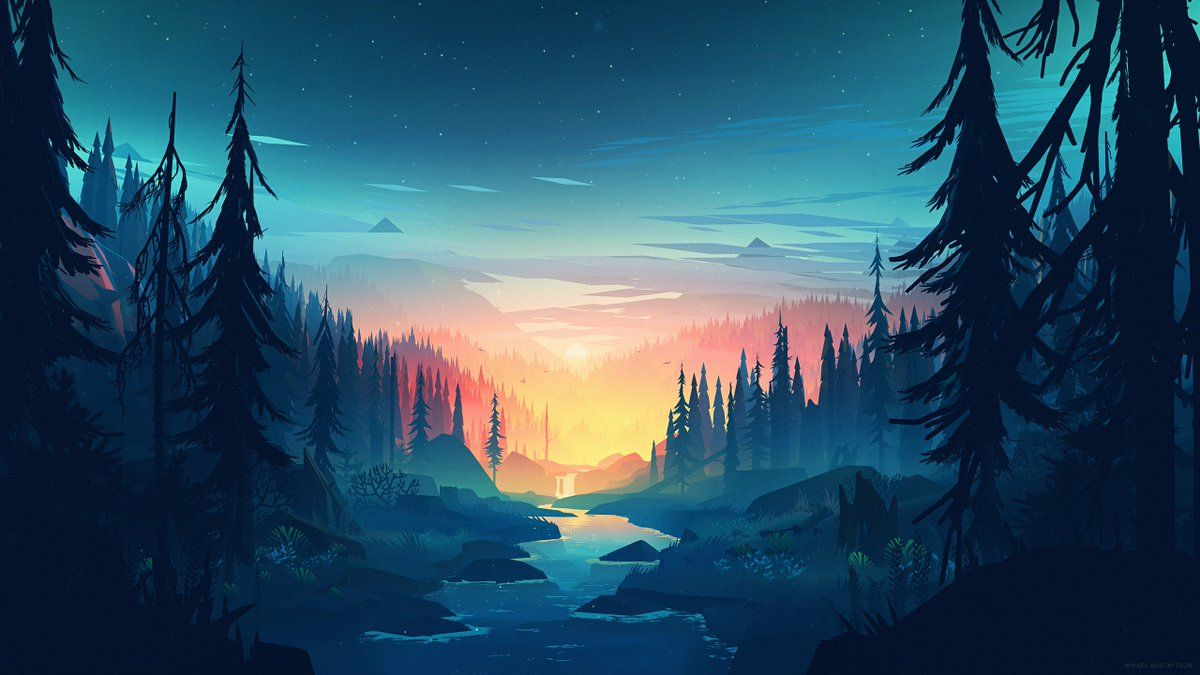
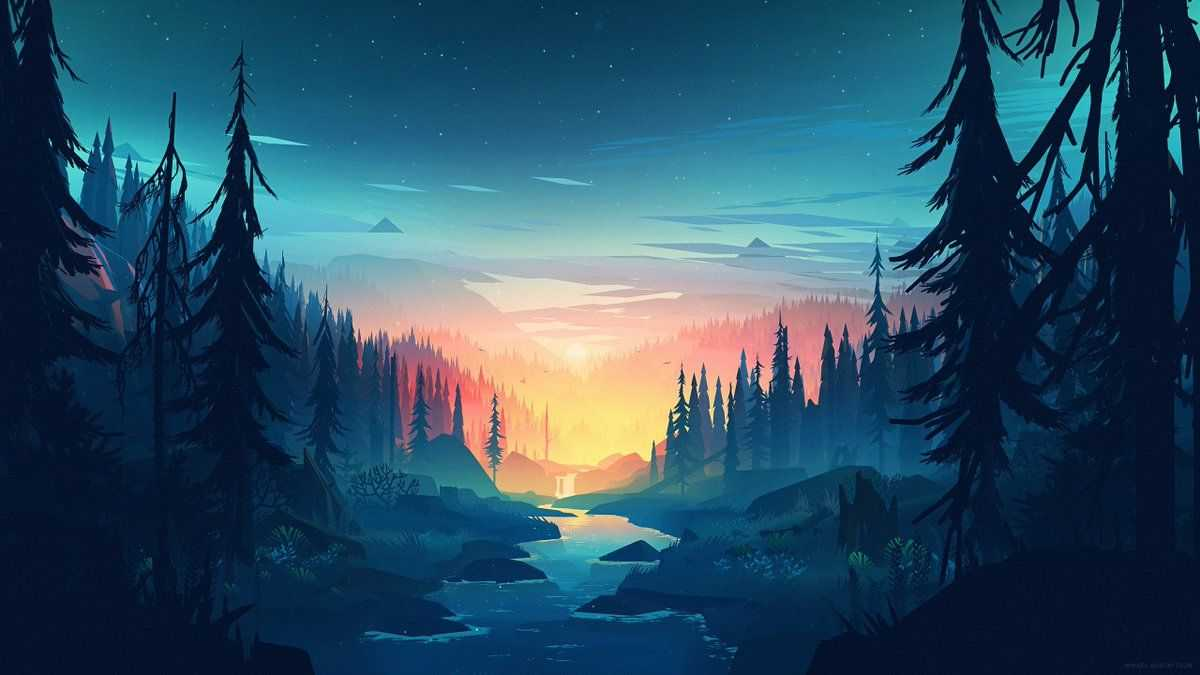
Okay

diff --git a/index.html b/index.html
@@ -1,1 +1,1 @@
-<!DOCTYPE html><html lang="en"><head><meta charset="UTF-8"><meta name="viewport" content="width=device-width, initial-scale=1.0"><link rel="stylesheet" href="https://stackpath.bootstrapcdn.com/bootstrap/4.4.1/css/bootstrap.min.css" integrity="sha384-Vkoo8x4CGsO3+Hhxv8T/Q5PaXtkKtu6ug5TOeNV6gBiFeWPGFN9MuhOf23Q9Ifjh" crossorigin="anonymous"> <script src="https://code.jquery.com/jquery-3.4.1.slim.min.js" integrity="sha384-J6qa4849blE2+poT4WnyKhv5vZF5SrPo0iEjwBvKU7imGFAV0wwj1yYfoRSJoZ+n" crossorigin="anonymous"></script> <script src="https://cdn.jsdelivr.net/npm/popper.js@1.16.0/dist/umd/popper.min.js" integrity="sha384-Q6E9RHvbIyZFJoft+2mJbHaEWldlvI9IOYy5n3zV9zzTtmI3UksdQRVvoxMfooAo" crossorigin="anonymous"></script> <script src="https://stackpath.bootstrapcdn.com/bootstrap/4.4.1/js/bootstrap.min.js" integrity="sha384-wfSDF2E50Y2D1uUdj0O3uMBJnjuUD4Ih7YwaYd1iqfktj0Uod8GCExl3Og8ifwB6" crossorigin="anonymous"></script> <link rel="preconnect" href="https://fonts.gstatic.com"><link href="https://fonts.googleapis.com/css2?family=Playfair+Display&display=swap" rel="stylesheet"><title>Dashboard</title><meta name="description" content="This Dashboard can help you in many ways like having your Todo list, Quote of the day, Date-and-Time, Weather Info, StopWatch, Music for concentration, and some cool Background Wallpaper. Definitely give it a try to increase your productivity."><meta name="author" content="Sanam Kapoor"><link rel="stylesheet" href="./style/style.css"> <script async src="https://kit.fontawesome.com/f5be5aaf66.js" crossorigin="anonymous"></script> </head><body> <main><div class="quote-section text-center"><h5 class="quote font-weight-bold"> <sup><i class="fas fa-quote-left"></i></sup> Something will be good !</h5></div><section><div class="info"><div class="text-muted p-3 p-md-4 shadow-lg time-and-weather"><div class="row no-gutters"><div class="col-8 align-self-center date"><h1>03:20 <small>PM</small></h1><h4>15 March 2020 - Sun</h4></div><div class="col-4 d-flex flex-column justify-content-center align-items-center"><div class="weather-icon"> <i class="fas fa-cloud-sun my-2"></i></div><p class="deg">30&#176; Sunny</p></div></div><div class="temp-and-info"><div class="temp-and-info-rows"><div class="temp"> Temperature : 30&#176; C</div><div class="pressure"> Pressure : 1015 hPa</div></div><div class="temp-and-info-rows"><div class="humidity"> Humidity : 57%</div><div class="wind"> Wind : 14 km/h</div></div></div><div class="p-0 p-sm-2 text-center"><h5 id="music-des">Study Music</h5> <audio src="./music/study.mp3" controls loop controlsList="nodownload" class="w-100" id="music-player"></audio></div><div class="px-0 px-sm-2 rounded-lg mt-2 mt-sm-3"><h5>Stop Watch</h5><div class="stop-watch"><div class="stop-watch-controler"> <span class="timing">00:00:00</span> <i class="far fa-play-circle" id="play-pause-watch"></i> <small><i class="fas fa-redo-alt" id="reset-watch"></i></small></div><div class="dropdown text-right align-self-center"> <i class="fas fa-cog" type="button" id="dropdownMenu2" data-toggle="dropdown" aria-haspopup="true" aria-expanded="false"></i><div class="dropdown-menu" aria-labelledby="dropdownMenu2"> <button class="dropdown-item" type="button" data-toggle="modal" data-target="#exampleModalCenter2">Change Music</button> <button class="dropdown-item" type="button" data-toggle="modal" data-target="#exampleModalCenter">Change Background</button></div></div></div><div class="modal fade" id="exampleModalCenter2" tabindex="-1" role="dialog" aria-labelledby="exampleModalCenterTitle2" aria-hidden="true"><div class="modal-dialog modal-dialog-centered modal-lg" role="document"><div class="modal-content"><div class="modal-header"><h5 class="modal-title" id="exampleModalLongTitle">Pick Your Music</h5> <button type="button" class="close" data-dismiss="modal" aria-label="Close"> <span aria-hidden="true">&times;</span> </button></div><div class="modal-body"><div class="row no-gutter d-flex justify-content-around" id="music-buttons"> <button class="col-10 col-sm-3 m-2 p-2 text-center btn btn-outline-secondary" id="study-btn"> <i class="fas fa-book-open py-2 py-lg-4"></i><h5>Study</h5> </button> <button class="col-10 col-sm-3 m-2 p-2 text-center btn btn-outline-secondary" id="meditation-btn"> <i class="fas fa-male py-2 py-lg-4"></i><h5>Meditation</h5> </button> <button class="col-10 col-sm-3 m-2 p-2 text-center btn btn-outline-secondary" id="coding-btn"> <i class="fas fa-laptop-code py-2 py-lg-4"></i><h5>Coding</h5> </button></div></div></div></div></div><div class="modal fade" id="exampleModalCenter" tabindex="-1" role="dialog" aria-labelledby="exampleModalCenterTitle" aria-hidden="true"><div class="modal-dialog modal-dialog-centered modal-lg" role="document"><div class="modal-content"><div class="modal-header"><h5 class="modal-title" id="exampleModalLongTitle">Choose Background</h5> <button type="button" class="close" data-dismiss="modal" aria-label="Close"> <span aria-hidden="true">&times;</span> </button></div><div class="modal-body"><div class="row no-gutters"><div class="col-6 col-md-3"> <img src="./images/139bc04adcfd5bec7235370d7ff43f40.jpg" class="img-fluid p-1" alt="img"></div><div class="col-6 col-md-3"> <img src="./images/345119.jpg" class="img-fluid p-1" alt="img"></div><div class="col-6 col-md-3"> <img src="./images/854169.jpg" class="img-fluid p-1" alt="img"></div><div class="col-6 col-md-3"> <img src="./images/967673.jpg" class="img-fluid p-1" alt="img"></div></div><div class="row no-gutters"><div class="col-6 col-md-3"> <img src="./images/160824.jpg" class="img-fluid p-1" alt="img"></div><div class="col-6 col-md-3"> <img src="./images/674996.jpg" class="img-fluid p-1" alt="img"></div><div class="col-6 col-md-3"> <img src="./images/deer-digtial-vector-art-4k_1551642889.jpg" class="img-fluid p-1" alt="img"></div><div class="col-6 col-md-3"> <img src="./images/ultra-violet-galactic-background-free-vector.jpg" class="img-fluid p-1" alt="img"></div></div></div></div></div></div></div></div></div><div class="d-flex flex-column justify-content-start align-items-center" id="todo-section"><div class="add-todo shadow-lg text-center p-3 p-md-4 text-muted"><h3>Your Todos</h3><div class="row no-gutters mt-3"><div class="col-10"> <input type="text" name="todo" placeholder="Add Todo" value="" class="form-control" minlength="3" maxlength="20" id="todo" /></div><div class="col-2 text-center align-self-center"> <i class="fas fa-plus-square" id="add-todo-btn"></i></div></div></div><div id="custom-todos" class="d-flex flex-column justify-content-start align-items-center my-2 w-100"></div></div> </section> <span class="d-flex justify-content-center justify-content-sm-end pb-2 water-mark mr-sm-2 mr-md-3">Made with ❤ by Sanam Kapoor</span> </main> <script src="./dashboard.js"></script> <script src="./todos.js"></script> </body></html>
+<!DOCTYPE html><html lang="en"><head><meta charset="UTF-8"><meta name="viewport" content="width=device-width, initial-scale=1.0"><link rel="stylesheet" href="https://stackpath.bootstrapcdn.com/bootstrap/4.4.1/css/bootstrap.min.css" integrity="sha384-Vkoo8x4CGsO3+Hhxv8T/Q5PaXtkKtu6ug5TOeNV6gBiFeWPGFN9MuhOf23Q9Ifjh" crossorigin="anonymous"> <script src="https://code.jquery.com/jquery-3.4.1.slim.min.js" integrity="sha384-J6qa4849blE2+poT4WnyKhv5vZF5SrPo0iEjwBvKU7imGFAV0wwj1yYfoRSJoZ+n" crossorigin="anonymous"></script> <script src="https://cdn.jsdelivr.net/npm/popper.js@1.16.0/dist/umd/popper.min.js" integrity="sha384-Q6E9RHvbIyZFJoft+2mJbHaEWldlvI9IOYy5n3zV9zzTtmI3UksdQRVvoxMfooAo" crossorigin="anonymous"></script> <script src="https://stackpath.bootstrapcdn.com/bootstrap/4.4.1/js/bootstrap.min.js" integrity="sha384-wfSDF2E50Y2D1uUdj0O3uMBJnjuUD4Ih7YwaYd1iqfktj0Uod8GCExl3Og8ifwB6" crossorigin="anonymous"></script> <link rel="preconnect" href="https://fonts.gstatic.com"><link href="https://fonts.googleapis.com/css2?family=Playfair+Display&display=swap" rel="stylesheet"><title>Dashboard</title><meta name="description" content="This Dashboard can help you in many ways like having your Todo list, Quote of the day, Date-and-Time, Weather Info, StopWatch, Music for concentration, and some cool Background Wallpaper. Definitely give it a try to increase your productivity."><meta name="author" content="Sanam Kapoor"><link rel="stylesheet" href="./style/style.css"> <script async src="https://kit.fontawesome.com/f5be5aaf66.js" crossorigin="anonymous"></script> </head><body> <main><div class="quote-section text-center"><h5 class="quote font-weight-bold"> <sup><i class="fas fa-quote-left"></i></sup> Something will be good !</h5></div><section><div class="info"><div class="text-muted p-3 p-md-4 shadow-lg time-and-weather"><div class="row no-gutters"><div class="col-8 align-self-center date"><h1>03:20 <small>PM</small></h1><h4>15 March 2020 - Sun</h4></div><div class="col-4 d-flex flex-column justify-content-center align-items-center"><div class="weather-icon"> <i class="fas fa-cloud-sun my-2"></i></div><p class="deg">30&#176; Sunny</p></div></div><div class="temp-and-info"><div class="temp-and-info-rows"><div class="temp"> Temperature : 30&#176; C</div><div class="pressure"> Pressure : 1015 hPa</div></div><div class="temp-and-info-rows"><div class="humidity"> Humidity : 57%</div><div class="wind"> Wind : 14 km/h</div></div></div><div class="p-0 p-sm-2 text-center"><h5 id="music-des">Study Music</h5> <audio src="./music/study.mp3" controls loop controlsList="nodownload" class="w-100" id="music-player"></audio></div><div class="px-0 px-sm-2 rounded-lg mt-2 mt-sm-3"><h5>Stop Watch</h5><div class="stop-watch"><div class="stop-watch-controler"> <span class="timing">00:00:00</span> <i class="far fa-play-circle" id="play-pause-watch"></i> <small><i class="fas fa-redo-alt" id="reset-watch"></i></small></div><div class="dropdown text-right align-self-center"> <i class="fas fa-cog" type="button" id="dropdownMenu2" data-toggle="dropdown" aria-haspopup="true" aria-expanded="false"></i><div class="dropdown-menu" aria-labelledby="dropdownMenu2"> <button class="dropdown-item" type="button" data-toggle="modal" data-target="#exampleModalCenter2">Change Music</button> <button class="dropdown-item" type="button" data-toggle="modal" data-target="#exampleModalCenter">Change Background</button></div></div></div><div class="modal fade" id="exampleModalCenter2" tabindex="-1" role="dialog" aria-labelledby="exampleModalCenterTitle2" aria-hidden="true"><div class="modal-dialog modal-dialog-centered modal-lg" role="document"><div class="modal-content"><div class="modal-header"><h5 class="modal-title" id="exampleModalLongTitle">Pick Your Music</h5> <button type="button" class="close" data-dismiss="modal" aria-label="Close"> <span aria-hidden="true">&times;</span> </button></div><div class="modal-body"><div class="row no-gutter d-flex justify-content-around" id="music-buttons"> <button class="col-10 col-sm-3 m-2 p-2 text-center btn btn-outline-secondary" id="study-btn"> <i class="fas fa-book-open py-2 py-lg-4"></i><h5>Study</h5> </button> <button class="col-10 col-sm-3 m-2 p-2 text-center btn btn-outline-secondary" id="meditation-btn"> <i class="fas fa-male py-2 py-lg-4"></i><h5>Meditation</h5> </button> <button class="col-10 col-sm-3 m-2 p-2 text-center btn btn-outline-secondary" id="coding-btn"> <i class="fas fa-laptop-code py-2 py-lg-4"></i><h5>Coding</h5> </button></div></div></div></div></div><div class="modal fade" id="exampleModalCenter" tabindex="-1" role="dialog" aria-labelledby="exampleModalCenterTitle" aria-hidden="true"><div class="modal-dialog modal-dialog-centered modal-lg" role="document"><div class="modal-content"><div class="modal-header"><h5 class="modal-title" id="exampleModalLongTitle">Choose Background</h5> <button type="button" class="close" data-dismiss="modal" aria-label="Close"> <span aria-hidden="true">&times;</span> </button></div><div class="modal-body"><div class="row no-gutters"><div class="col-6 col-md-3"> <img src="./images/139bc04adcfd5bec7235370d7ff43f40.jpg" class="img-fluid p-1" alt="img"></div><div class="col-6 col-md-3"> <img src="./images/345119.jpg" class="img-fluid p-1" alt="img"></div><div class="col-6 col-md-3"> <img src="./images/854169.jpg" class="img-fluid p-1" alt="img"></div><div class="col-6 col-md-3"> <img src="./images/967673.jpg" class="img-fluid p-1" alt="img"></div></div><div class="row no-gutters"><div class="col-6 col-md-3"> <img src="./images/160824.jpg" class="img-fluid p-1" alt="img"></div><div class="col-6 col-md-3"> <img src="./images/674996.jpg" class="img-fluid p-1" alt="img"></div><div class="col-6 col-md-3"> <img src="./images/967674.jpg" class="img-fluid p-1" alt="img"></div><div class="col-6 col-md-3"> <img src="./images/ultra-violet-galactic-background-free-vector.jpg" class="img-fluid p-1" alt="img"></div></div></div></div></div></div></div></div></div><div class="d-flex flex-column justify-content-start align-items-center" id="todo-section"><div class="add-todo shadow-lg text-center p-3 p-md-4 text-muted"><h3>Your Todos</h3><div class="row no-gutters mt-3"><div class="col-10"> <input type="text" name="todo" placeholder="Add Todo" value="" class="form-control" minlength="3" maxlength="20" id="todo" /></div><div class="col-2 text-center align-self-center"> <i class="fas fa-plus-square" id="add-todo-btn"></i></div></div></div><div id="custom-todos" class="d-flex flex-column justify-content-start align-items-center my-2 w-100"></div></div> </section> <span class="d-flex justify-content-center justify-content-sm-end pb-2 water-mark mr-sm-2 mr-md-3">Made with ❤ by Sanam Kapoor</span> </main> <script src="./dashboard.js"></script> <script src="./todos.js"></script> </body></html>

diff --git a/style/style.css b/style/style.css
@@ -1,1 +1,1 @@
-*{padding:0;margin:0;-webkit-box-sizing:border-box;box-sizing:border-box}main{position:absolute;top:0;left:0;right:0;bottom:0;background:url("../images/967674.jpg") no-repeat center center;background-size:cover;color:white;height:100vh;width:100vw;overflow-x:hidden}main .quote{font-size:2.7rem;font-family:'Playfair Display',serif;margin:3rem auto;width:70vw}@media screen and (max-width: 1400px){main .quote{font-size:2.5rem}}@media screen and (max-width: 1000px){main .quote{font-size:2.3rem;width:80vw}}@media screen and (max-width: 800px){main .quote{font-size:2rem}}@media screen and (max-width: 500px){main .quote{font-size:1.7rem;margin:1.5rem auto;width:90vw}}@media screen and (max-width: 350px){main .quote{font-size:1.5rem}}@media screen and (max-width: 300px){main .quote{font-size:1.3rem}}@media screen and (max-height: 500px){main .quote{margin:3% auto}}main section{display:-ms-grid;display:grid;-ms-grid-columns:1fr 1fr;grid-template-columns:1fr 1fr;margin:3rem 0}@media screen and (max-width: 1400px){main section{-ms-grid-columns:1fr;grid-template-columns:1fr}}@media screen and (max-width: 500px){main section{margin:1.5rem 0}}main section .info{display:-webkit-box;display:-ms-flexbox;display:flex;-webkit-box-pack:center;-ms-flex-pack:center;justify-content:center;-webkit-box-align:start;-ms-flex-align:start;align-items:flex-start}@media screen and (max-width: 800px){main section .info{display:block}}main section .info .date h1{font-size:2.5rem}@media screen and (max-width: 430px){main section .info .date h1{font-size:1.8rem}}@media screen and (max-width: 300px){main section .info .date h1{font-size:1.5rem}}main section .info .date h4{font-size:1.5rem}@media screen and (max-width: 430px){main section .info .date h4{font-size:1.2rem}}@media screen and (max-width: 300px){main section .info .date h4{font-size:1rem}}main section .info .weather-icon{font-size:4rem}@media screen and (max-width: 430px){main section .info .weather-icon{font-size:3rem}}@media screen and (max-width: 300px){main section .info .weather-icon{font-size:2.5rem}}main section .info .deg{font-size:1.2rem}@media screen and (max-width: 430px){main section .info .deg{font-size:1rem}}@media screen and (max-width: 300px){main section .info .deg{font-size:0.8rem}}main .time-and-weather{width:50%;background:url("../images/bright-background-with-dots_1055-3132.jpg") no-repeat center center;background-size:cover;border-radius:10px}@media screen and (max-width: 1000px){main .time-and-weather{width:70%;margin:0 auto}}@media screen and (max-width: 850px){main .time-and-weather{width:80%;margin:0 auto}}@media screen and (max-width: 500px){main .time-and-weather{width:90%;margin:0 auto;border-radius:7px}}@media screen and (max-width: 350px){main .time-and-weather{width:95%;margin:0 auto;border-radius:5px}}main .temp-and-info{font-size:1rem;padding:0.5rem 0}main .temp-and-info .temp-and-info-rows{display:-ms-grid;display:grid;-ms-grid-columns:1fr 1fr;grid-template-columns:1fr 1fr;text-align:center}@media (max-width: 400px){main .temp-and-info .temp-and-info-rows{-ms-grid-columns:1fr;grid-template-columns:1fr}}@media (max-width: 350px){main .modal-title{font-size:1rem}}main .modal-body i{font-size:3rem}@media (max-width: 992px){main .modal-body i{font-size:2rem}}@media (max-width: 992px){main .modal-body h5{font-size:1rem}}main .stop-watch{display:-ms-grid;display:grid;-ms-grid-columns:3fr auto;grid-template-columns:3fr auto}main .stop-watch .timing{font-size:2.5rem}@media (max-width: 350px){main .stop-watch .timing{font-size:2.2rem}}@media (max-width: 270px){main .stop-watch .timing{font-size:1.8rem}}main .stop-watch #play-pause-watch{font-size:2rem}@media (max-width: 350px){main .stop-watch #play-pause-watch{font-size:1.5rem}}@media (max-width: 270px){main .stop-watch #play-pause-watch{font-size:1.2rem}}@media (max-width: 230px){main .stop-watch{-ms-grid-columns:1fr;grid-template-columns:1fr}}main .add-todo{width:50%;background-color:lightgray;border-radius:10px}@media screen and (max-width: 1000px){main .add-todo{width:70%;margin:0 auto}}@media screen and (max-width: 850px){main .add-todo{width:80%;margin:0 auto}}@media screen and (max-width: 500px){main .add-todo{width:90%;margin:0 auto;border-radius:7px}}@media screen and (max-width: 350px){main .add-todo{width:95%;margin:0 auto;border-radius:5px}}@media screen and (max-width: 500px){main .add-todo h3{font-size:1.5rem}}@media screen and (max-width: 300px){main .add-todo h3{font-size:1.4rem}}main .add-todo i{font-size:1.8rem}@media screen and (max-width: 350px){main .add-todo i{font-size:1.5rem}}main .todo{background:lightcoral;width:50%;border-radius:10px}@media screen and (max-width: 1000px){main .todo{width:70%;margin:0 auto}}@media screen and (max-width: 850px){main .todo{width:80%;margin:0 auto}}@media screen and (max-width: 500px){main .todo{width:90%;margin:0 auto;border-radius:7px}}@media screen and (max-width: 350px){main .todo{width:95%;margin:0 auto;border-radius:5px}}main .todo h5{font-size:1.2rem}main .todo i{font-size:1.3rem}@media screen and (max-width: 350px){main .todo h5{font-size:1rem}main .todo i{font-size:1rem}}@media screen and (max-width: 1400px){main{height:100%;background-size:cover;-ms-grid-rows:20% 80%;grid-template-rows:20% 80%}main #todo-section{margin:3% 0}}@media screen and (max-height: 500px){main{-ms-grid-rows:auto;grid-template-rows:auto}}.water-mark{font-size:1rem}@media (max-width: 300px){.water-mark{font-size:0.8rem}}
+*{padding:0;margin:0;-webkit-box-sizing:border-box;box-sizing:border-box}main{position:absolute;top:0;left:0;right:0;bottom:0;background:url("../images/deer-digtial-vector-art-4k_1551642889.jpg") no-repeat center center;background-size:cover;color:white;height:100vh;width:100vw;overflow-x:hidden}main .quote{font-size:2.7rem;font-family:'Playfair Display',serif;margin:3rem auto;width:70vw}@media screen and (max-width: 1400px){main .quote{font-size:2.5rem}}@media screen and (max-width: 1000px){main .quote{font-size:2.3rem;width:80vw}}@media screen and (max-width: 800px){main .quote{font-size:2rem}}@media screen and (max-width: 500px){main .quote{font-size:1.7rem;margin:1.5rem auto;width:90vw}}@media screen and (max-width: 350px){main .quote{font-size:1.5rem}}@media screen and (max-width: 300px){main .quote{font-size:1.3rem}}@media screen and (max-height: 500px){main .quote{margin:3% auto}}main section{display:-ms-grid;display:grid;-ms-grid-columns:1fr 1fr;grid-template-columns:1fr 1fr;margin:3rem 0}@media screen and (max-width: 1400px){main section{-ms-grid-columns:1fr;grid-template-columns:1fr}}@media screen and (max-width: 500px){main section{margin:1.5rem 0}}main section .info{display:-webkit-box;display:-ms-flexbox;display:flex;-webkit-box-pack:center;-ms-flex-pack:center;justify-content:center;-webkit-box-align:start;-ms-flex-align:start;align-items:flex-start}@media screen and (max-width: 800px){main section .info{display:block}}main section .info .date h1{font-size:2.5rem}@media screen and (max-width: 430px){main section .info .date h1{font-size:1.8rem}}@media screen and (max-width: 300px){main section .info .date h1{font-size:1.5rem}}main section .info .date h4{font-size:1.5rem}@media screen and (max-width: 430px){main section .info .date h4{font-size:1.2rem}}@media screen and (max-width: 300px){main section .info .date h4{font-size:1rem}}main section .info .weather-icon{font-size:4rem}@media screen and (max-width: 430px){main section .info .weather-icon{font-size:3rem}}@media screen and (max-width: 300px){main section .info .weather-icon{font-size:2.5rem}}main section .info .deg{font-size:1.2rem}@media screen and (max-width: 430px){main section .info .deg{font-size:1rem}}@media screen and (max-width: 300px){main section .info .deg{font-size:0.8rem}}main .time-and-weather{width:50%;background:url("../images/bright-background-with-dots_1055-3132.jpg") no-repeat center center;background-size:cover;border-radius:10px}@media screen and (max-width: 1000px){main .time-and-weather{width:70%;margin:0 auto}}@media screen and (max-width: 850px){main .time-and-weather{width:80%;margin:0 auto}}@media screen and (max-width: 500px){main .time-and-weather{width:90%;margin:0 auto;border-radius:7px}}@media screen and (max-width: 350px){main .time-and-weather{width:95%;margin:0 auto;border-radius:5px}}main .temp-and-info{font-size:1rem;padding:0.5rem 0}main .temp-and-info .temp-and-info-rows{display:-ms-grid;display:grid;-ms-grid-columns:1fr 1fr;grid-template-columns:1fr 1fr;text-align:center}@media (max-width: 400px){main .temp-and-info .temp-and-info-rows{-ms-grid-columns:1fr;grid-template-columns:1fr}}@media (max-width: 350px){main .modal-title{font-size:1rem}}main .modal-body i{font-size:3rem}@media (max-width: 992px){main .modal-body i{font-size:2rem}}@media (max-width: 992px){main .modal-body h5{font-size:1rem}}main .stop-watch{display:-ms-grid;display:grid;-ms-grid-columns:3fr auto;grid-template-columns:3fr auto}main .stop-watch .timing{font-size:2.5rem}@media (max-width: 350px){main .stop-watch .timing{font-size:2.2rem}}@media (max-width: 270px){main .stop-watch .timing{font-size:1.8rem}}main .stop-watch #play-pause-watch{font-size:2rem}@media (max-width: 350px){main .stop-watch #play-pause-watch{font-size:1.5rem}}@media (max-width: 270px){main .stop-watch #play-pause-watch{font-size:1.2rem}}@media (max-width: 230px){main .stop-watch{-ms-grid-columns:1fr;grid-template-columns:1fr}}main .add-todo{width:50%;background-color:lightgray;border-radius:10px}@media screen and (max-width: 1000px){main .add-todo{width:70%;margin:0 auto}}@media screen and (max-width: 850px){main .add-todo{width:80%;margin:0 auto}}@media screen and (max-width: 500px){main .add-todo{width:90%;margin:0 auto;border-radius:7px}}@media screen and (max-width: 350px){main .add-todo{width:95%;margin:0 auto;border-radius:5px}}@media screen and (max-width: 500px){main .add-todo h3{font-size:1.5rem}}@media screen and (max-width: 300px){main .add-todo h3{font-size:1.4rem}}main .add-todo i{font-size:1.8rem}@media screen and (max-width: 350px){main .add-todo i{font-size:1.5rem}}main .todo{background:lightcoral;width:50%;border-radius:10px}@media screen and (max-width: 1000px){main .todo{width:70%;margin:0 auto}}@media screen and (max-width: 850px){main .todo{width:80%;margin:0 auto}}@media screen and (max-width: 500px){main .todo{width:90%;margin:0 auto;border-radius:7px}}@media screen and (max-width: 350px){main .todo{width:95%;margin:0 auto;border-radius:5px}}main .todo h5{font-size:1.2rem}main .todo i{font-size:1.3rem}@media screen and (max-width: 350px){main .todo h5{font-size:1rem}main .todo i{font-size:1rem}}@media screen and (max-width: 1400px){main{height:100%;background-size:cover;-ms-grid-rows:20% 80%;grid-template-rows:20% 80%}main #todo-section{margin:3% 0}}@media screen and (max-height: 500px){main{-ms-grid-rows:auto;grid-template-rows:auto}}.water-mark{font-size:1rem}@media (max-width: 300px){.water-mark{font-size:0.8rem}}

diff --git a/dashboard.js b/dashboard.js
@@ -1,1 +1,1 @@
-let date=new Date().toDateString().split(' ');let dateSection=document.querySelector('.date h4');let timeSection=document.querySelector('.date h1');dateSection.textContent=`${date[2]}${date[1]}${date[3]}-${date[0]}`;setInterval(()=>{let hours=new Date().getHours();let minutes=new Date().getMinutes();let isAm=hours<12?'AM':'PM';hours=hours%12;hours=hours===0?12:hours;hours=(hours/10<1)?'0'+hours:hours;minutes=(minutes/10<1)?'0'+minutes:minutes;timeSection.innerHTML=`${hours}:${minutes}<small>${isAm}</small>`;},1000);let images=document.querySelectorAll('.modal-body img');let main=document.querySelector('main');images.forEach(img=>{img.addEventListener('click',e=>{if(e.target.hasAttribute('src')) {let src=e.target.getAttribute('src');main.style.background=`url(${src})no-repeat center center`;main.style.backgroundSize='cover';}})}); function weather(){quoteFun();let long;let lat;let tempSummary=document.querySelector('.deg');let temp=document.querySelector('.temp');let press=document.querySelector('.pressure');let hum=document.querySelector('.humidity');let wind=document.querySelector('.wind');let wIcon=document.querySelector('.weather-icon');if(navigator.geolocation){navigator.geolocation.getCurrentPosition(position=>{long=position.coords.longitude;lat=position.coords.latitude;var api="https://cors-anywhere.herokuapp.com/https://api.darksky.net/forecast/fdf36c1e47d51baa0462804ed7bc27b1/"+lat+","+long;fetch(api).then(res=>res.json()).then(data=>{let{temperature,summary,humidity,pressure,windSpeed,icon}=data.currently;let celsius=Math.floor((temperature-32)*5/9);let humPrs=Math.floor(humidity*100);tempSummary.textContent=`${celsius}° ${summary}`;temp.textContent=`Temperature:${celsius}° C`;press.textContent=`Pressure:${pressure}hPa`;hum.textContent=`Humidity:${humPrs}%`;wind.textContent=`Wind:${windSpeed}km/h`;if(icon==='rain'){icon='cloud-showers-heavy';}else if(icon==='partly-cloudy-day'){icon='cloud-sun';}else if(icon==='partly-cloudy-night'){icon='cloud-moon';}else if(icon==='snow'){icon='cloud-rain';}else{icon='cloud';} wIcon.innerHTML=`<i class="fas fa-${icon} my-2"></i>`}).catch(err=>console.log(err));});}} window.onload=weather;let quoteElem=document.querySelector('.quote');const quoteFun=async function(){const api="https://gist.githubusercontent.com/camperbot/5a022b72e96c4c9585c32bf6a75f62d9/raw/e3c6895ce42069f0ee7e991229064f167fe8ccdc/quotes.json";let res=await fetch(api);let data=await res.json();let quotes=await data.quotes;let randomNum=Math.floor(Math.random()*90+1);let quote=quotes[randomNum].quote;quoteElem.innerHTML=`<sup><i class="fas fa-quote-left"></i></sup>${quote}`;}; let seconds='00';let minutes='00';let hours='00';let status="stopped";let startInterval=null;let displayTiming=document.querySelector('.timing');const WatchBtn=document.querySelector('#play-pause-watch');WatchBtn.addEventListener('click',stopWatch);function startWatch(e){+seconds++;seconds=addZero(seconds);if(+seconds/60===1){seconds='00';+minutes++;minutes=addZero(minutes);if(+minutes/60===1){minutes='00';+hours++;hours=addZero(hours);}} displayTiming.textContent=`${hours}:${minutes}:${seconds}`;} function addZero(n){if(n<10){return'0'+n;} return n;} function stopWatch(e){if(status==="stopped"){interval=setInterval(startWatch,1000);let elem=document.getElementById("play-pause-watch");elem.className='far fa-pause-circle';status="started";} else{clearInterval(interval);let elem=document.getElementById("play-pause-watch");elem.className='far fa-play-circle';status="stopped";}} let resetWatch=document.getElementById('reset-watch');resetWatch.addEventListener('click',resetStopWatch);function resetStopWatch(){clearInterval(interval);seconds='00';minutes='00';hours='00';document.querySelector(".timing").textContent="00:00:00";document.querySelector("#play-pause-watch").className='far fa-play-circle';} let player=document.getElementById('music-player');let description=document.getElementById('music-des');let studyBtn=document.getElementById('study-btn');let meditationBtn=document.getElementById('meditation-btn');let codingBtn=document.getElementById('coding-btn');studyBtn.addEventListener('click',function(){player.src='./music/study.mp3';description.innerHTML='Study Music';}); meditationBtn.addEventListener('click',function(){player.src='./music/meditation.mp3';description.innerHTML='Meditation Music';}); codingBtn.addEventListener('click',function(){player.src='./music/coding.mp3';description.innerHTML='Coding Music';})
+let date=new Date().toDateString().split(' ');let dateSection=document.querySelector('.date h4');let timeSection=document.querySelector('.date h1');dateSection.textContent=`${date[2]}${date[1]}${date[3]}-${date[0]}`;setInterval(()=>{let hours=new Date().getHours();let minutes=new Date().getMinutes();let isAm=hours<12?'AM':'PM';hours=hours%12;hours=hours===0?12:hours;hours=(hours/10<1)?'0'+hours:hours;minutes=(minutes/10<1)?'0'+minutes:minutes;timeSection.innerHTML=`${hours}:${minutes}<small>${isAm}</small>`;},1000);let images=document.querySelectorAll('.modal-body img');let main=document.querySelector('main');images.forEach(img=>{img.addEventListener('click',e=>{if(e.target.hasAttribute('src')) {let src=e.target.getAttribute('src');main.style.background=`url(${src})no-repeat center center`;main.style.backgroundSize='cover';}})}); function weather(){quoteFun();let long;let lat;let tempSummary=document.querySelector('.deg');let temp=document.querySelector('.temp');let press=document.querySelector('.pressure');let hum=document.querySelector('.humidity');let wind=document.querySelector('.wind');let wIcon=document.querySelector('.weather-icon');if(navigator.geolocation){navigator.geolocation.getCurrentPosition(position=>{long=position.coords.longitude;lat=position.coords.latitude;var api="https://cors-anywhere.herokuapp.com/https://api.darksky.net/forecast/fdf36c1e47d51baa0462804ed7bc27b1/"+lat+","+long;fetch(api).then(res=>res.json()).then(data=>{let{temperature,summary,humidity,pressure,windSpeed,icon}=data.currently;let celsius=Math.floor((temperature-32)*5/9);let humPrs=Math.floor(humidity*100);tempSummary.textContent=`${celsius}° ${summary}`;temp.textContent=`Temperature:${celsius}° C`;press.textContent=`Pressure:${pressure}hPa`;hum.textContent=`Humidity:${humPrs}%`;wind.textContent=`Wind:${windSpeed}km/h`;if(icon==='rain'){icon='cloud-showers-heavy';}else if(icon==='partly-cloudy-day'){icon='cloud-sun';}else if(icon==='partly-cloudy-night'){icon='cloud-moon';}else if(icon==='snow'){icon='cloud-rain';}else{icon='cloud';} wIcon.innerHTML=`<i class="fas fa-${icon} my-2"></i>`}).catch(err=>console.log(err));});}} window.onload=weather;let quoteElem=document.querySelector('.quote');const quoteFun=async function(){const api="https://gist.githubusercontent.com/camperbot/5a022b72e96c4c9585c32bf6a75f62d9/raw/e3c6895ce42069f0ee7e991229064f167fe8ccdc/quotes.json";let res=await fetch(api);let data=await res.json();let quotes=await data.quotes;let randomNum=Math.floor(Math.random()*90+1);let quote=quotes[randomNum].quote;quoteElem.innerHTML=`<sup><i class="fas fa-quote-left"></i></sup> ${quote}`;}; let seconds='00';let minutes='00';let hours='00';let status="stopped";let startInterval=null;let displayTiming=document.querySelector('.timing');const WatchBtn=document.querySelector('#play-pause-watch');WatchBtn.addEventListener('click',stopWatch);function startWatch(e){+seconds++;seconds=addZero(seconds);if(+seconds/60===1){seconds='00';+minutes++;minutes=addZero(minutes);if(+minutes/60===1){minutes='00';+hours++;hours=addZero(hours);}} displayTiming.textContent=`${hours}:${minutes}:${seconds}`;} function addZero(n){if(n<10){return'0'+n;} return n;} function stopWatch(e){if(status==="stopped"){interval=setInterval(startWatch,1000);let elem=document.getElementById("play-pause-watch");elem.className='far fa-pause-circle';status="started";} else{clearInterval(interval);let elem=document.getElementById("play-pause-watch");elem.className='far fa-play-circle';status="stopped";}} let resetWatch=document.getElementById('reset-watch');resetWatch.addEventListener('click',resetStopWatch);function resetStopWatch(){clearInterval(interval);seconds='00';minutes='00';hours='00';document.querySelector(".timing").textContent="00:00:00";document.querySelector("#play-pause-watch").className='far fa-play-circle';} let player=document.getElementById('music-player');let description=document.getElementById('music-des');let studyBtn=document.getElementById('study-btn');let meditationBtn=document.getElementById('meditation-btn');let codingBtn=document.getElementById('coding-btn');studyBtn.addEventListener('click',function(){player.src='./music/study.mp3';description.innerHTML='Study Music';}); meditationBtn.addEventListener('click',function(){player.src='./music/meditation.mp3';description.innerHTML='Meditation Music';}); codingBtn.addEventListener('click',function(){player.src='./music/coding.mp3';description.innerHTML='Coding Music';})
